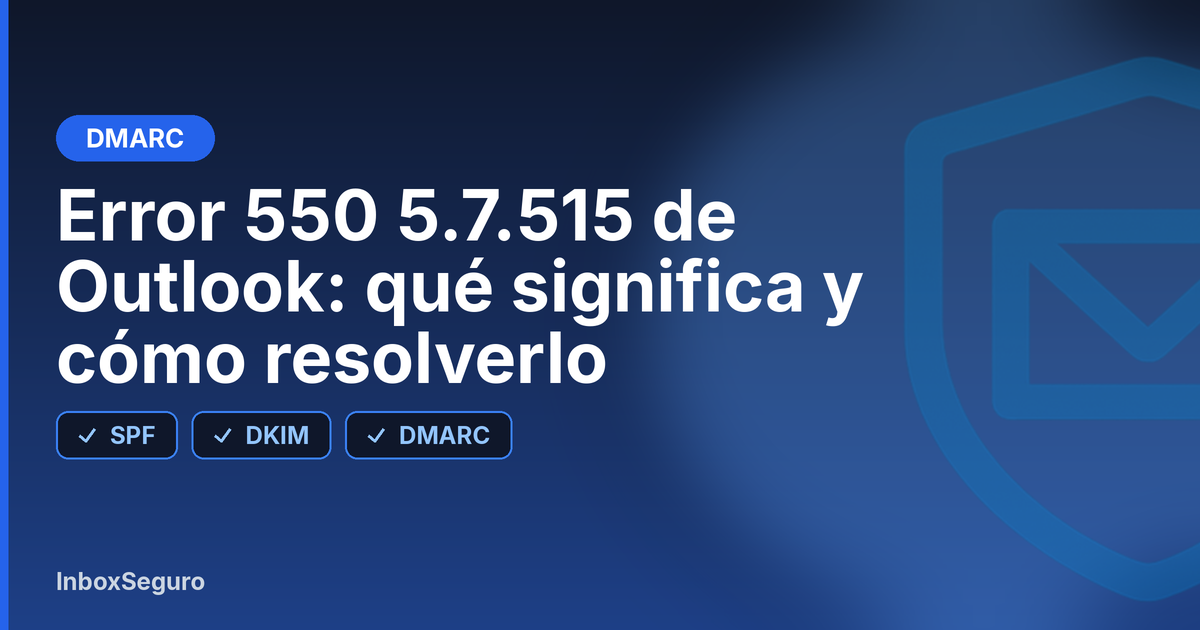
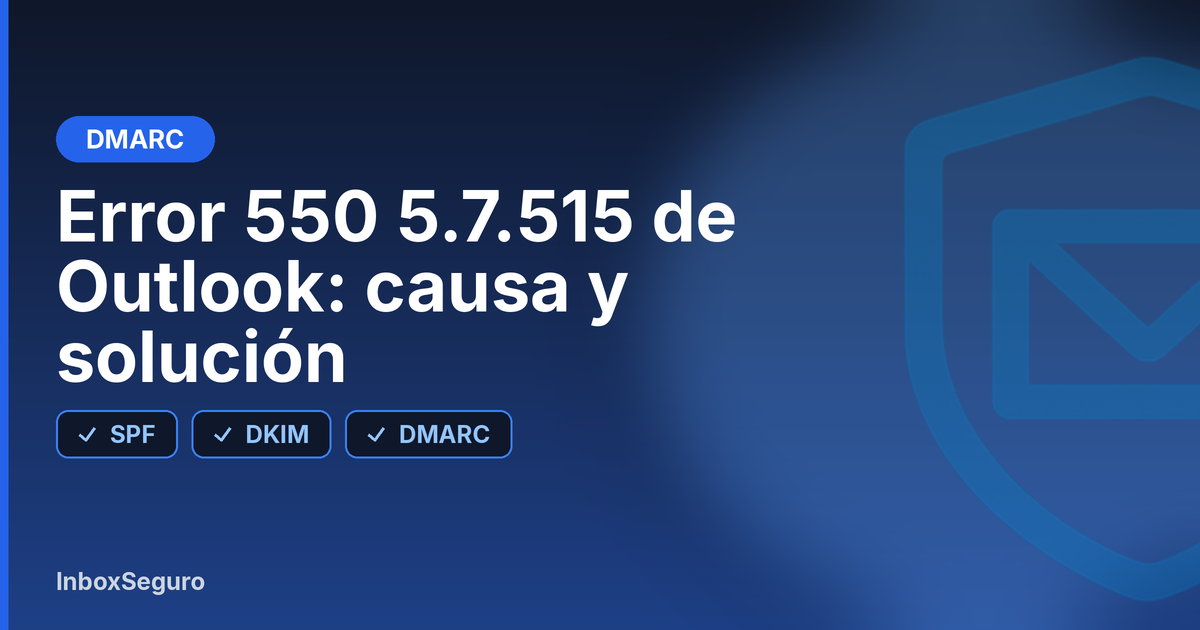
Acortar título y description del artículo 550 5.7.515
Ajusta el título a "Error 550 5.7.515 de Outlook: causa y solución" y recorta la description a 127 caracteres. El audio no cambia.

diff --git a/blog/error-550-5-7-515-outlook/index.html b/blog/error-550-5-7-515-outlook/index.html
@@ -3,21 +3,21 @@
 <head>
     <meta charset="UTF-8">
     <meta name="viewport" content="width=device-width, initial-scale=1.0">
-    <title>Error 550 5.7.515 de Outlook: qué significa y cómo…</title>
+    <title>Error 550 5.7.515 de Outlook: causa y solución | InboxSeguro</title>
     <link rel="icon" type="image/png" href="/favicon.png">
-    <meta name="description" content="Error 550 5.7.515 de Outlook.com: qué exige Microsoft a los remitentes de alto volumen (SPF, DKIM y DMARC alineado) y cómo diagnosticar y corregir el…">
+    <meta name="description" content="Qué significa el error 550 5.7.515 de Outlook.com, qué exige Microsoft (SPF, DKIM y DMARC alineado) y cómo corregir el rechazo.">
     <link rel="canonical" href="https://www.inboxseguro.com/blog/error-550-5-7-515-outlook/">
     <meta name="robots" content="index, follow">
     <meta property="og:type" content="article">
     <meta property="og:site_name" content="InboxSeguro">
     <meta property="og:locale" content="es_CL">
     <meta property="og:url" content="https://www.inboxseguro.com/blog/error-550-5-7-515-outlook/">
-    <meta property="og:title" content="Error 550 5.7.515 de Outlook: qué significa y cómo…">
-    <meta property="og:description" content="Error 550 5.7.515 de Outlook.com: qué exige Microsoft a los remitentes de alto volumen (SPF, DKIM y DMARC alineado) y cómo diagnosticar y corregir el…">
+    <meta property="og:title" content="Error 550 5.7.515 de Outlook: causa y solución | InboxSeguro">
+    <meta property="og:description" content="Qué significa el error 550 5.7.515 de Outlook.com, qué exige Microsoft (SPF, DKIM y DMARC alineado) y cómo corregir el rechazo.">
     <meta property="og:image" content="https://www.inboxseguro.com/blog/covers/error-550-5-7-515-outlook.png">
     <meta name="twitter:card" content="summary_large_image">
-    <meta name="twitter:title" content="Error 550 5.7.515 de Outlook: qué significa y cómo…">
-    <meta name="twitter:description" content="Error 550 5.7.515 de Outlook.com: qué exige Microsoft a los remitentes de alto volumen (SPF, DKIM y DMARC alineado) y cómo diagnosticar y corregir el…">
+    <meta name="twitter:title" content="Error 550 5.7.515 de Outlook: causa y solución | InboxSeguro">
+    <meta name="twitter:description" content="Qué significa el error 550 5.7.515 de Outlook.com, qué exige Microsoft (SPF, DKIM y DMARC alineado) y cómo corregir el rechazo.">
     <meta name="twitter:image" content="https://www.inboxseguro.com/blog/covers/error-550-5-7-515-outlook.png">
     <link rel="alternate" type="application/rss+xml" title="Blog InboxSeguro" href="https://www.inboxseguro.com/blog/feed.xml">
     <link rel="preconnect" href="https://fonts.googleapis.com">
@@ -31,8 +31,8 @@
 {
   "@context": "https://schema.org",
   "@type": "BlogPosting",
-  "headline": "Error 550 5.7.515 de Outlook: qué significa y cómo resolverlo",
-  "description": "Error 550 5.7.515 de Outlook.com: qué exige Microsoft a los remitentes de alto volumen (SPF, DKIM y DMARC alineado) y cómo diagnosticar y corregir el…",
+  "headline": "Error 550 5.7.515 de Outlook: causa y solución",
+  "description": "Qué significa el error 550 5.7.515 de Outlook.com, qué exige Microsoft (SPF, DKIM y DMARC alineado) y cómo corregir el rechazo.",
   "datePublished": "2026-11-19",
   "dateModified": "2026-11-19",
   "author": {
@@ -77,7 +77,7 @@
     {
       "@type": "ListItem",
       "position": 3,
-      "name": "Error 550 5.7.515 de Outlook: qué significa y cómo resolverlo",
+      "name": "Error 550 5.7.515 de Outlook: causa y solución",
       "item": "https://www.inboxseguro.com/blog/error-550-5-7-515-outlook/"
     }
   ]
@@ -277,10 +277,10 @@
     <header class="blog-article-hero">
         <div class="blog-article-hero-inner">
             <nav class="blog-breadcrumbs blog-breadcrumbs--on-dark" aria-label="Miga de pan">
-                <a href="/">Inicio</a><span>/</span><a href="/blog/">Blog</a><span>/</span>Error 550 5.7.515 de Outlook: qué significa y cómo resolverlo
+                <a href="/">Inicio</a><span>/</span><a href="/blog/">Blog</a><span>/</span>Error 550 5.7.515 de Outlook: causa y solución
             </nav>
             <span class="blog-chip blog-chip--on-dark">DMARC</span>
-            <h1 class="blog-article-h1">Error 550 5.7.515 de Outlook: qué significa y cómo resolverlo</h1>
+            <h1 class="blog-article-h1">Error 550 5.7.515 de Outlook: causa y solución</h1>
             <p class="blog-meta blog-meta--on-dark">
                 <time datetime="2026-11-19" data-updated="2026-11-19">
                     19 de noviembre de 2026

diff --git a/blog/index.html b/blog/index.html
@@ -196,7 +196,7 @@
             <div class="blog-featured-media">
                 <img
                     src="/blog/covers/error-550-5-7-515-outlook.png"
-                    alt="Portada: Error 550 5.7.515 de Outlook: qué significa y cómo resolverlo"
+                    alt="Portada: Error 550 5.7.515 de Outlook: causa y solución"
                     width="1200"
                     height="630"
                     loading="eager"
@@ -206,7 +206,7 @@
             </div>
             <div class="blog-featured-body">
                 <span class="blog-chip">DMARC</span>
-                <h2 class="blog-featured-title">Error 550 5.7.515 de Outlook: qué significa y cómo resolverlo</h2>
+                <h2 class="blog-featured-title">Error 550 5.7.515 de Outlook: causa y solución</h2>
                 <p class="blog-featured-excerpt">Outlook.com rechaza tu correo con 550 5.7.515. Qué pide Microsoft a quienes envían más de 5.000 correos, cómo revisar las cabeceras y qué corregir.</p>
                 <p class="blog-card-meta">
                     <time datetime="2026-11-19">19 de noviembre de 2026</time>

diff --git a/_content/blog/error-550-5-7-515-outlook.md b/_content/blog/error-550-5-7-515-outlook.md
@@ -1,7 +1,7 @@
 ---
-title: "Error 550 5.7.515 de Outlook: qué significa y cómo resolverlo"
+title: "Error 550 5.7.515 de Outlook: causa y solución"
 slug: error-550-5-7-515-outlook
-description: "Error 550 5.7.515 de Outlook.com: qué exige Microsoft a los remitentes de alto volumen (SPF, DKIM y DMARC alineado) y cómo diagnosticar y corregir el rechazo."
+description: "Qué significa el error 550 5.7.515 de Outlook.com, qué exige Microsoft (SPF, DKIM y DMARC alineado) y cómo corregir el rechazo."
 excerpt: "Outlook.com rechaza tu correo con 550 5.7.515. Qué pide Microsoft a quienes envían más de 5.000 correos, cómo revisar las cabeceras y qué corregir."
 category: DMARC
 date: 2026-11-19
